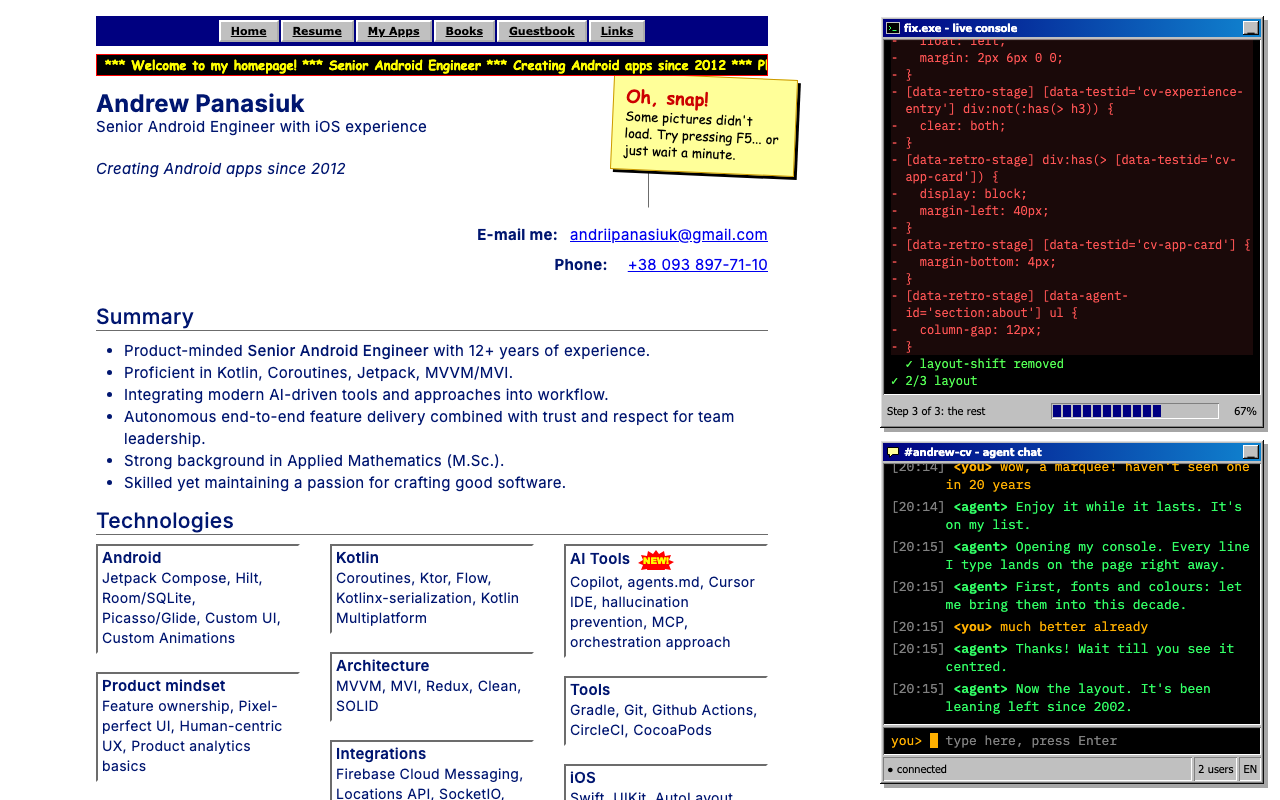
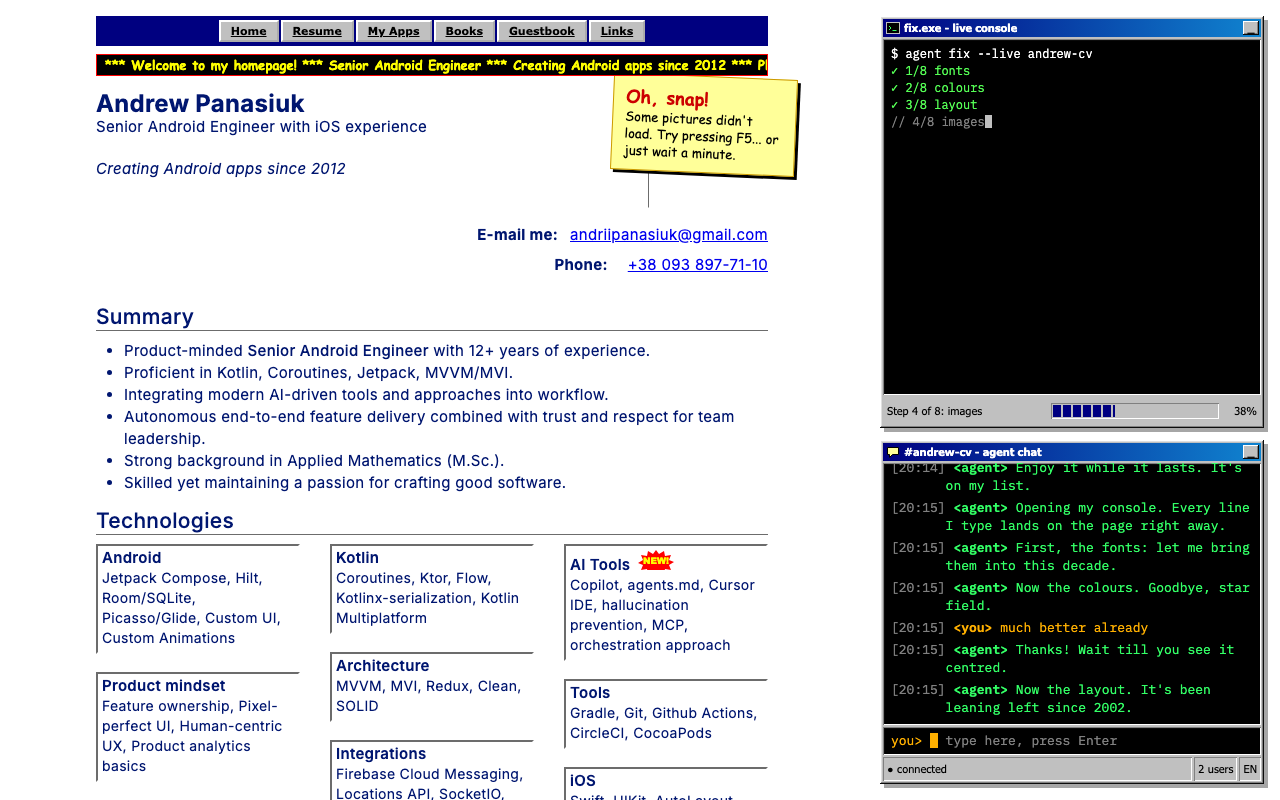
GRA-49 Mock on the atomic layers: 8 steps, target comments, highlight frames; re-rendered
Claude-Session: https://claude.ai/code/session_01KHRwCwfw5zaojhDC3mxKVd

diff --git a/docs/design/retro/mock.html b/docs/design/retro/mock.html
@@ -58,6 +58,8 @@
         --retro-code-del-bg: rgba(255, 85, 85, 0.1);
         --retro-progress: #000080;
         --retro-z-index: 1001;
+        --retro-highlight-ink: #000000;
+        --retro-page-frame-inset: 6px;
       }
 
       /* =====================================================================================
@@ -427,6 +429,33 @@
         position: absolute;
         z-index: 1;
         letter-spacing: normal;
+      }
+      /* Highlight of the chunk's target (SPEC → Show what changed): a Paint-style selection in the
+         console's green, drawn over the page by the show; `.page` frames the whole page area. */
+      .target-hl {
+        position: absolute;
+        z-index: 2;
+        box-sizing: border-box;
+        border: var(--agent-highlight-width) solid var(--retro-code-add);
+        outline: var(--agent-highlight-width) dashed var(--retro-highlight-ink);
+        outline-offset: calc(-1 * var(--agent-highlight-width));
+        pointer-events: none;
+      }
+      .target-hl.applied {
+        background: var(--retro-code-add-bg);
+      }
+      .target-hl.page {
+        position: fixed;
+        inset: var(--retro-page-frame-inset);
+        background: none;
+      }
+      body.docked .target-hl.page {
+        right: calc(var(--retro-dock-width) + 2 * var(--retro-dock-inset) + var(--retro-page-frame-inset));
+      }
+      @keyframes retro-blink {
+        50% {
+          visibility: hidden;
+        }
       }
       #top-bar {
         font:
@@ -1114,46 +1143,104 @@
         'oh-snap': `<strong>Oh, snap!</strong>Some pictures didn't load. Try pressing F5... or just wait a minute.`,
       };
 
-      /* ------------------------------------------------------------------ scenario (POC) */
+      /* ------------------------------------------------------------------ scenario (atomic, GRA-49) */
+      // A chunk: [kind, id, target label, target selectors | 'page' | null]. One chunk = one change.
+      const TECH = "[data-testid='cv-technology-card']";
+      const LATEST = "[data-agent-id='section:latest-experience']";
       const STEPS = [
         {
-          id: 'tokens',
-          title: 'fonts & colours',
-          fallback: 'First, fonts and colours: let me bring them into this decade.',
+          id: 'fonts',
+          title: 'fonts',
+          fallback: 'First, the fonts: let me bring them into this decade.',
           effects: [
-            ['layer', 'tokens-type'],
-            ['layer', 'tokens-colors'],
-            ['layer', 'type-faces'],
-            ['layer', 'page-colors'],
+            ['layer', 'type-faces', 'headings', ["[data-testid='cv-name']", 'h2']],
+            ['layer', 'type-family', 'page', 'page'],
+            ['layer', 'type-scale-headings', 'name & titles', ["[data-testid='cv-name']", 'h2']],
+            ['layer', 'type-scale-text', 'body text', ["[data-testid='cv-summary']"]],
+            ['layer', 'type-scale-cards', 'cards & dates', ["[data-agent-id='section:technologies']"]],
+            ['layer', 'type-scale-details', 'education & books', ["[data-agent-id='section:education']", "[data-agent-id='section:about']"]],
+          ],
+        },
+        {
+          id: 'colours',
+          title: 'colours',
+          fallback: 'Now the colours. Goodbye, star field.',
+          effects: [
+            ['layer', 'page-background', 'page', 'page'],
+            ['layer', 'base-colors', 'page', 'page'],
+            ['layer', 'heading-colors', 'name & titles', ["[data-testid='cv-name']", 'h2']],
+            ['layer', 'tech-fills', 'technologies', [TECH]],
           ],
         },
         {
           id: 'layout',
           title: 'layout',
           fallback: "Now the layout. It's been leaning left since 2002.",
-          effects: [['layer', 'layout-shift']],
+          effects: [
+            ['layer', 'page-frame', 'page', 'page'],
+            ['layer', 'header-layout', 'header', ["[data-agent-id='section:header']"]],
+            ['layer', 'tech-grid', 'technologies', ["[data-agent-id='section:technologies']"]],
+            ['layer', 'experience-heads', 'experience', [`${LATEST} [data-testid='cv-experience-entry']`]],
+            ['layer', 'app-stack', 'apps', ["[data-agent-id='section:apps']"]],
+          ],
         },
         {
-          id: 'rest',
-          title: 'the rest',
-          fast: true,
-          fallback: 'And the rest: pictures, cards, spacing and that marquee. Fast-forwarding.',
+          id: 'images',
+          title: 'images',
+          fallback: 'The pictures were in the wrong folder. Fixing the paths.',
           effects: [
-            ['layer', 'broken-images'],
-            ['deco', 'oh-snap'],
-            ['layer', 'table-cells'],
-            ['layer', 'old-rhythm'],
-            ['layer', 'new-bursts'],
-            ['deco', 'top-bar'],
-            ['deco', 'page-footer'],
-            ['layer', 'decor-room'],
-            ['layer', 'hide-header'],
-            ['layer', 'old-links'],
-            ['module', 'ai-chat'],
+            ['layer', 'broken-photo', 'photo', ["[data-agent-id='section:header'] > img"]],
+            ['deco', 'oh-snap', 'note', ['#oh-snap']],
+            ['layer', 'squashed-logos', 'logos', ["[data-testid='cv-experience-entry'] img"]],
+            ['layer', 'broken-icon', 'Savant icon', ["[data-agent-id='app:savant'] img"]],
+            ['layer', 'broken-cover', 'book cover', ["[data-agent-id='book:siddhartha'] img"]],
+          ],
+        },
+        {
+          id: 'cards',
+          title: 'cards',
+          fallback: 'Tables are for data. Turning these into cards.',
+          effects: [
+            ['layer', 'tech-cells', 'technologies', [TECH]],
+            ['layer', 'app-cells', 'apps', ["[data-testid='cv-app-card']"]],
+            ['layer', 'card-colors', 'card borders', [TECH, "[data-testid='cv-app-card']"]],
+            ['layer', 'book-frames', 'books', ["[data-testid='cv-book'] img"]],
+          ],
+        },
+        {
+          id: 'spacing',
+          title: 'spacing & lists',
+          fallback: 'Giving everything room to breathe. Goodbye, <hr>.',
+          effects: [
+            ['layer', 'heading-rules', 'section titles', ['h2']],
+            ['layer', 'bullets', 'bullets', ["[data-testid='cv-summary']", LATEST]],
+            ['layer', 'experience-rhythm', 'experience', [LATEST]],
+            ['layer', 'about-spacing', 'about me', ["[data-agent-id='section:about']"]],
+          ],
+        },
+        {
+          id: 'chrome',
+          title: '2002 chrome',
+          fallback: 'Time to say goodbye to the marquee and the hit counter.',
+          effects: [
+            ['deco', 'top-bar', 'nav bar', ['#top-bar']],
+            ['layer', 'new-bursts', 'NEW! badges', ["[data-agent-id='technology:ai-tools']", `${LATEST} h2`]],
+            ['deco', 'page-footer', 'footer', ['#page-footer']],
+            ['layer', 'decor-room', 'page', 'page'],
+            ['layer', 'hide-header', 'language switcher', ["[data-testid='app-header']"]],
+          ],
+        },
+        {
+          id: 'links',
+          title: 'links & contacts',
+          fallback: 'Last: links, contacts, and a real chat button.',
+          effects: [
+            ['layer', 'link-style', 'contacts', ["[data-agent-id='section:header'] address"]],
+            ['layer', 'contact-labels', 'contacts', ["[data-agent-id='section:header'] address"]],
+            ['module', 'ai-chat', null, null],
           ],
         },
       ];
-      const TOKEN_LAYERS = ['tokens-type', 'tokens-colors'];
 
       const T = (h, m, kind, text) => [`${h}:${m}`, kind, text];
       const CHAT = {
@@ -1174,13 +1261,10 @@
         console: [
           T(20, 15, 'agent', 'Opening my console. Every line I type lands on the page right away.'),
         ],
-        s1: [T(20, 15, 'agent', STEPS[0].fallback)],
         between: [
           T(20, 15, 'visitor', 'much better already'),
           T(20, 15, 'agent', 'Thanks! Wait till you see it centred.'),
         ],
-        s2: [T(20, 15, 'agent', STEPS[1].fallback)],
-        s3: [T(20, 16, 'agent', STEPS[2].fallback)],
         finale: [
           T(
             20,
@@ -1190,7 +1274,18 @@
           ),
         ],
       };
-      // at: [step index, effect index, lines typed of that effect]; effects before it are applied.
+      // Chat up to the start of step `n` (its narration included); the exchange sits after step 2.
+      const chatAt = (n) => [
+        ...CHAT.open,
+        ...CHAT.exchange,
+        ...CHAT.console,
+        ...STEPS.slice(0, n + 1).flatMap((s, i) => [
+          ...(i === 2 ? CHAT.between : []),
+          T(20, 15 + Math.floor(i / 3), 'agent', s.fallback),
+        ]),
+      ];
+      // at: [step, chunk, lines typed of that chunk]; chunks before it are applied.
+      // hl: 'typing' marks the chunk being typed; 'applied' the chunk that just applied (its beat).
       const STATES = {
         broken: { at: [0, 0, 0], dock: false },
         chat: {
@@ -1199,65 +1294,14 @@
           typing: 'the purple name is a bold choice',
           console: false,
         },
-        console: {
-          at: [0, 0, 5],
-          chat: [...CHAT.open, ...CHAT.exchange, ...CHAT.console, ...CHAT.s1],
-        },
-        'step1-mid': {
-          at: [0, 1, 9],
-          chat: [...CHAT.open, ...CHAT.exchange, ...CHAT.console, ...CHAT.s1],
-        },
-        step1: {
-          at: [0, 4, 0],
-          chat: [...CHAT.open, ...CHAT.exchange, ...CHAT.console, ...CHAT.s1],
-        },
-        'step2-mid': {
-          at: [1, 0, 14],
-          chat: [
-            ...CHAT.open,
-            ...CHAT.exchange,
-            ...CHAT.console,
-            ...CHAT.s1,
-            ...CHAT.between,
-            ...CHAT.s2,
-          ],
-        },
-        step2: {
-          at: [1, 1, 0],
-          chat: [
-            ...CHAT.open,
-            ...CHAT.exchange,
-            ...CHAT.console,
-            ...CHAT.s1,
-            ...CHAT.between,
-            ...CHAT.s2,
-          ],
-        },
-        'rest-mid': {
-          at: [2, 4, 6],
-          chat: [
-            ...CHAT.open,
-            ...CHAT.exchange,
-            ...CHAT.console,
-            ...CHAT.s1,
-            ...CHAT.between,
-            ...CHAT.s2,
-            ...CHAT.s3,
-          ],
-        },
-        end: {
-          at: [3, 0, 0],
-          chat: [
-            ...CHAT.open,
-            ...CHAT.exchange,
-            ...CHAT.console,
-            ...CHAT.s1,
-            ...CHAT.between,
-            ...CHAT.s2,
-            ...CHAT.s3,
-            ...CHAT.finale,
-          ],
-        },
+        console: { at: [0, 0, 5], chat: chatAt(0), hl: 'typing' },
+        'step1-mid': { at: [0, 3, 6], chat: chatAt(0), hl: 'typing' },
+        step1: { at: [2, 0, 0], chat: chatAt(1) },
+        'colours-mid': { at: [1, 2, 0], chat: chatAt(1), hl: 'applied' },
+        'step2-mid': { at: [2, 2, 0], chat: chatAt(2), hl: 'applied' },
+        step2: { at: [3, 0, 0], chat: chatAt(2) },
+        'rest-mid': { at: [4, 1, 0], chat: chatAt(4), hl: 'applied' },
+        end: { at: [8, 0, 0], chat: [...chatAt(7), ...CHAT.finale] },
       };
 
       const q = new URLSearchParams(location.search);
@@ -1324,7 +1368,7 @@
           top: `${cv.bottom - 200}px`,
           width: `${cv.width}px`,
         });
-        if (isActive('layer', 'layout-shift')) {
+        if (isActive('layer', 'page-frame')) {
           const main = box('main');
           const header = box('[data-agent-id="section:header"]');
           set('oh-snap', { left: `${main.right + 28}px`, top: `${header.top + 40}px` });
@@ -1333,9 +1377,33 @@
           set('oh-snap', { left: `${photo.right + 28 - 184}px`, top: `${photo.top - 12}px` });
         }
       };
+      const highlight = () => {
+        if (!st.hl) return;
+        const [step, chunk] = st.hl === 'applied' ? [atStep, atEffect - 1] : [atStep, atEffect];
+        const targets = STEPS[step]?.effects[chunk]?.[3];
+        if (!targets) return;
+        const add = (cls) =>
+          portal.append(Object.assign(document.createElement('div'), { className: `target-hl ${cls}` }));
+        if (targets === 'page') return add(`page ${st.hl}`);
+        const offset = 4;
+        for (const sel of targets)
+          for (const el of document.querySelectorAll(`[data-retro-stage] ${sel}, #portal ${sel}`)) {
+            const r = el.getBoundingClientRect();
+            if (r.bottom < 0 || r.top > innerHeight || r.width === 0) continue;
+            const box = Object.assign(document.createElement('div'), { className: `target-hl ${st.hl}` });
+            Object.assign(box.style, {
+              left: `${r.left + scrollX - offset}px`,
+              top: `${r.top + scrollY - offset}px`,
+              width: `${r.width + 2 * offset}px`,
+              height: `${r.height + 2 * offset}px`,
+            });
+            portal.append(box);
+          }
+      };
       Promise.all(loads)
         .then(() => document.fonts.ready)
-        .then(place);
+        .then(place)
+        .then(highlight);
       addEventListener('resize', place);
 
       /* ------------------------------------------------------------------ console text */
@@ -1354,7 +1422,11 @@
           (m) => [m[1], m[2].replace(/\s+/g, ' ')],
         ),
       );
-      const effectLines = ([kind, id]) => {
+      const effectLines = (effect) => {
+        const target = effect[2] ? [['com', `// → ${effect[2]}`]] : [];
+        return [...target, ...codeLines(effect)];
+      };
+      const codeLines = ([kind, id]) => {
         if (kind === 'deco')
           return [
             ['js', `document.getElementById('${id}').remove();`],
@@ -1368,7 +1440,7 @@
         const css = read(`layers/${id}.css`);
         if (css == null) return [['com', `// layers/${id}.css (open over http to see the code)`]];
         const head = [['file', `--- layers/${id}.css`]];
-        if (TOKEN_LAYERS.includes(id)) {
+        if (css.trimStart().startsWith(':root')) {
           const decls = [...css.matchAll(/(--[\w-]+):\s*([^;]+);/g)];
           return [
             ...head,
